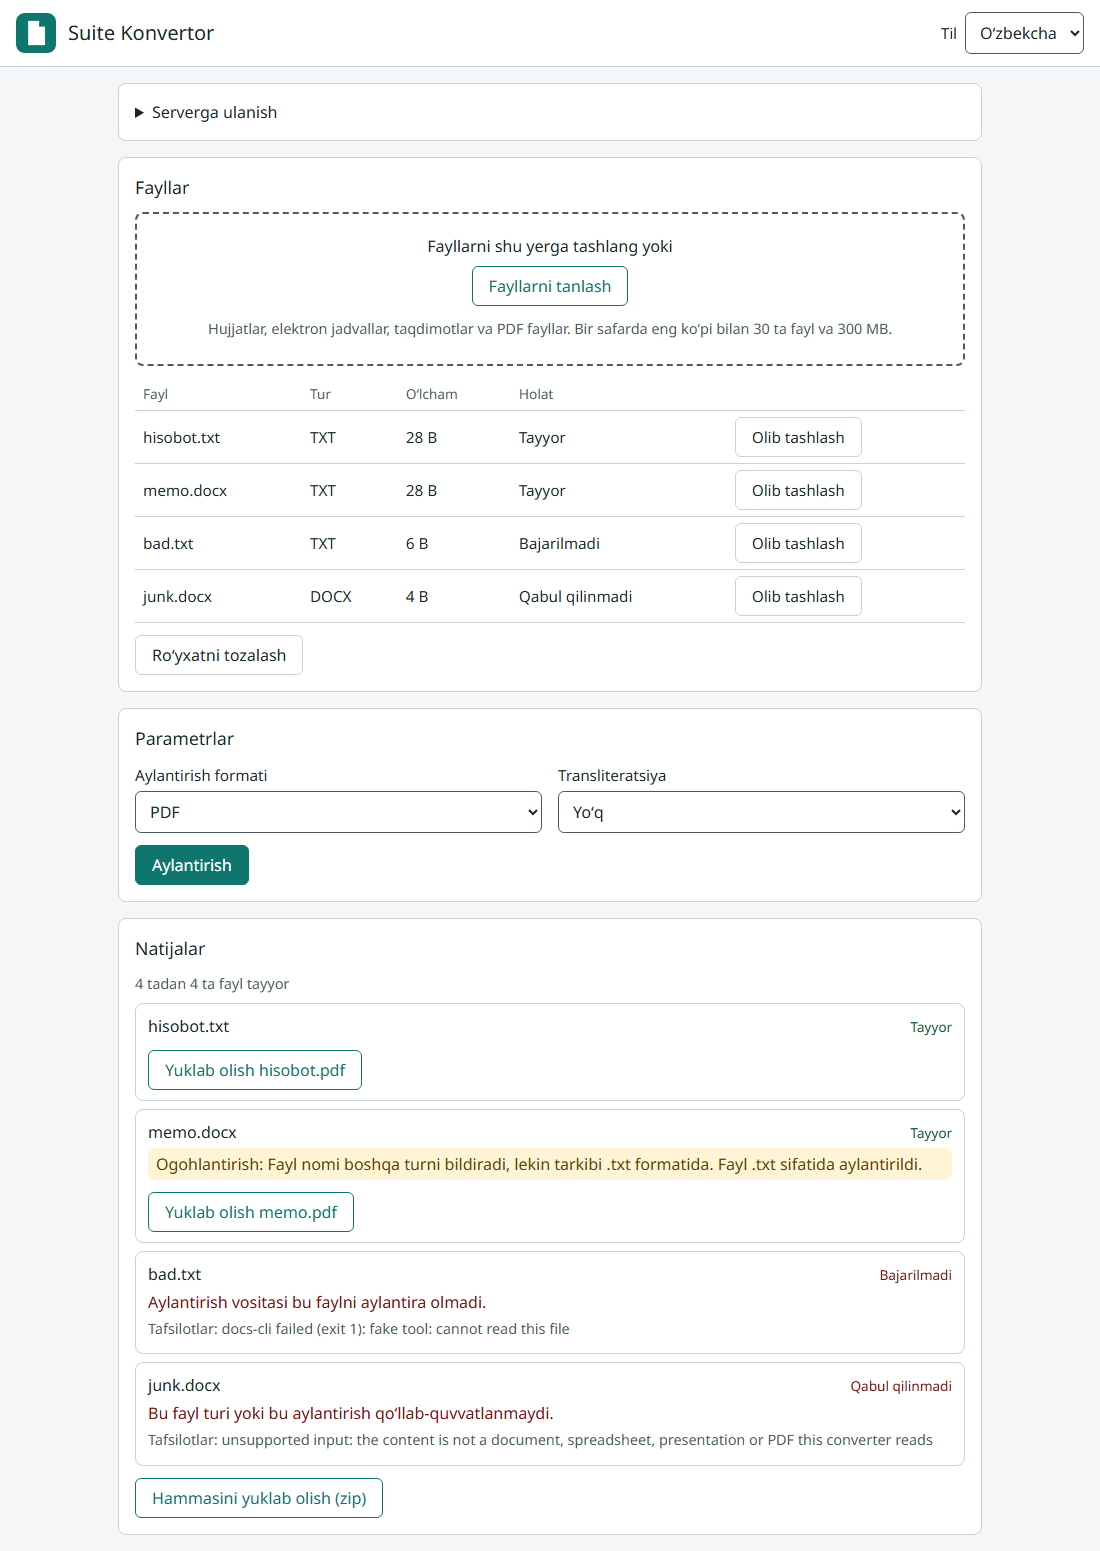
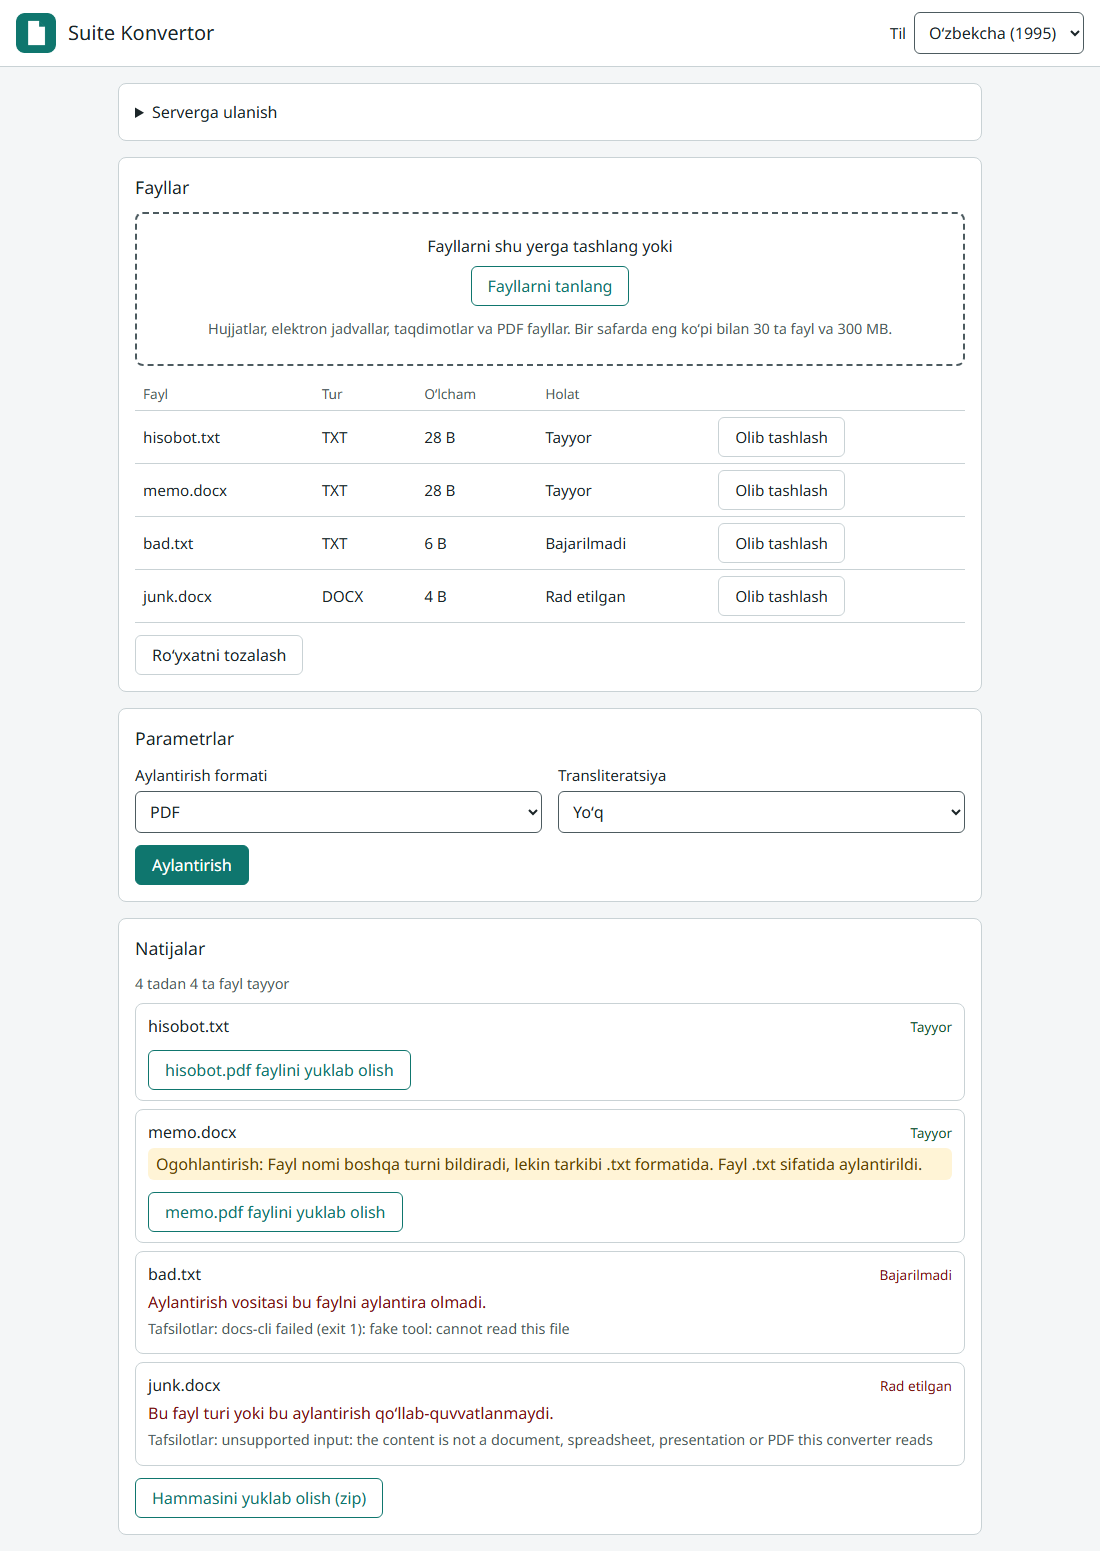
converter WP16: uz-Latn-2026 page catalog, default alphabet mark, three rows reviewed
uz-Latn-2026 has no catalog column: `i18n export converter --format json`
derives it from each row's own trusted uz-Cyrl value through uz-translit
Y2026 (never the ru fallback), and `i18n lint` checks the derived values.
All 123 page strings equal the 1995 strings under the letter substitution.
The language menu offers Oʻzbekcha (1995) and Oʻzbekcha (2026).

The alphabet menu preselects the server default and marks it with the new
ui.opt.alphabet.default row ("{alphabet} (default)"), so the 1995 row is a
plain year and the O13 switch needs no string change.

Reviewed for uz-Latn, uz-Cyrl and ru (reviewed:agent-opus:2026-10-21):
warning.pdf_text_missing, warning.pdf_docx_fallback (the sidecar named by
its menu label), warning.csv_one_sheet (unchanged).

Playwright converter spec 9/9 with the new language; screenshots show
Ş Ç Ö Ğ in Noto Sans Uz with no tofu.

diff --git a/ci/web-smoke/converter.spec.ts b/ci/web-smoke/converter.spec.ts
@@ -8,7 +8,7 @@ import * as path from 'node:path';
 // The converter page against the real convert-api binary. The tools are the test stand-in (convert-api-fake-tool): it writes a
 // stub PDF, `FAIL...` input makes it exit 1, `SLEEP...` input keeps it busy (cancel). Run with:
 //   npm exec --prefix ci/web-smoke -- playwright test --config ci/web-smoke/playwright.converter.config.ts
-// UI_SHOTS=<dir> also writes the four-language screenshots.
+// UI_SHOTS=<dir> also writes the five-language screenshots.
 const ROOT = path.resolve(__dirname, '../..');
 const SVC = process.env.CONVERT_SERVICES_DIR ?? 'E:/office-target/p1/services/release';
 const API_BIN = process.env.CONVERT_API_BIN ?? path.join(SVC, 'convert-api.exe');
@@ -144,7 +144,7 @@ test('cancel stops a running conversion and deletes the job', async ({ page }) =
 
 test('the language switch changes the page, the name and the document language, and is remembered', async ({ page }) => {
   const problems = await open(page);
-  for (const [lang, htmlLang] of [['ru', 'ru'], ['uz-Latn', 'uz-Latn'], ['uz-Cyrl', 'uz-Cyrl'], ['en', 'en']] as const) {
+  for (const [lang, htmlLang] of [['ru', 'ru'], ['uz-Latn', 'uz-Latn'], ['uz-Latn-2026', 'uz-Latn-2026'], ['uz-Cyrl', 'uz-Cyrl'], ['en', 'en']] as const) {
     await page.selectOption('#lang', lang);
     await expect(page.locator('html')).toHaveAttribute('lang', htmlLang);
     await expect(page.locator('#files-h')).toHaveText(txt(lang, 'ui.files.heading'));
@@ -152,12 +152,20 @@ test('the language switch changes the page, the name and the document language, 
     await expect(page).toHaveTitle(I18N[lang]['app.name']);
   }
   expect(txt('uz-Cyrl', 'ui.convert')).not.toBe(txt('uz-Latn', 'ui.convert'));
+  // the 2026 catalog is generated from uz-Cyrl: it has the new letters and none of the 1995 oʻ gʻ
+  const all26 = Object.values(I18N['uz-Latn-2026']).join(' ');
+  expect(all26).toMatch(/[şçöğ]/i);
+  expect(all26).not.toMatch(/ʻ/);
+  // the Latin alphabet menu preselects and marks the server's default (DEFAULT_LATIN_ALPHABET, owner decision O13)
+  const def = (await (await page.request.get(`${base}/api/v1/formats`)).json()).defaults.alphabet;
+  await expect(page.locator('#o-alphabet')).toHaveValue(def);
+  await expect(page.locator(`#o-alphabet option[value="${def}"]`)).toHaveText(txt('en', 'ui.opt.alphabet.default', { alphabet: def }));
   await page.selectOption('#lang', 'uz-Cyrl');
   await page.reload();
   await expect(page.locator('#lang')).toHaveValue('uz-Cyrl'); // remembered
   await expect(page.locator('#go')).toHaveText(txt('uz-Cyrl', 'ui.convert'));
   // the self-hosted Noto Sans really loaded and has the Uzbek letters
-  expect(await page.evaluate(async () => { await document.fonts.ready; return document.fonts.check('16px "Noto Sans Uz"', '\u02bb\u02bc\u045e\u049b\u0493\u04b3'); })).toBe(true);
+  expect(await page.evaluate(async () => { await document.fonts.ready; return document.fonts.check('16px "Noto Sans Uz"', '\u02bb\u02bc\u045e\u049b\u0493\u04b3\u015e\u015f\u00c7\u00e7\u00d6\u00f6\u011e\u011f'); })).toBe(true);
   expect(problems).toEqual([]);
 });
 
@@ -191,10 +199,10 @@ test('server mode: the healthz probe carries the token in the Authorization head
   expect(probes.at(-1)!.auth).toBeUndefined();
 });
 
-test('screenshots in en, ru, uz-Latn and uz-Cyrl', async ({ page }) => {
+test('screenshots in en, ru, uz-Latn, uz-Latn-2026 and uz-Cyrl', async ({ page }) => {
   test.skip(!process.env.UI_SHOTS, 'set UI_SHOTS=<dir> to write them');
   fs.mkdirSync(process.env.UI_SHOTS!, { recursive: true });
-  for (const lang of ['en', 'ru', 'uz-Latn', 'uz-Cyrl']) {
+  for (const lang of ['en', 'ru', 'uz-Latn', 'uz-Latn-2026', 'uz-Cyrl']) {
     await page.goto(base + '/');
     await page.selectOption('#lang', lang);
     await expect(page.locator('#go')).toHaveText(txt(lang, 'ui.convert'));

diff --git a/services/convert-api/ui/app.js b/services/convert-api/ui/app.js
@@ -3,7 +3,8 @@
 // All server text goes in through textContent, never innerHTML.
 (function () {
   const $ = (id) => document.getElementById(id);
-  const LANGS = ['en', 'ru', 'uz-Latn', 'uz-Cyrl'];
+  // uz-Latn-2026: the 2026 Latin alphabet, generated from uz-Cyrl by `cargo xt i18n export` (WP16)
+  const LANGS = ['en', 'ru', 'uz-Latn', 'uz-Latn-2026', 'uz-Cyrl'];
   const S = { lang: 'en', i18n: {}, fmts: null, health: null, items: [], sent: [], job: null, ctrl: null, timer: null, running: false, token: null };
 
   // ---- small helpers -------------------------------------------------------------------------------------------------
@@ -25,6 +26,9 @@
 
   class ApiErr extends Error { constructor(code, message, status) { super(message); this.code = code; this.status = status || 0; } }
 
+  // The server's default Latin alphabet (uz-translit DEFAULT_LATIN_ALPHABET, owner decision O13); null until /formats answers.
+  const defAlphabet = () => (S.fmts && S.fmts.defaults && S.fmts.defaults.alphabet) || null;
+
   // ---- language ------------------------------------------------------------------------------------------------------
   function guessLang() {
     const saved = store('localStorage', 'cv.lang');
@@ -41,6 +45,7 @@
     document.title = t('app.name');
     $('appname').textContent = t('app.name');
     for (const e of document.querySelectorAll('[data-i18n]')) e.textContent = t(e.dataset.i18n);
+    for (const o of $('o-alphabet').options) if (o.value === defAlphabet()) o.textContent = t('ui.opt.alphabet.default', { alphabet: o.textContent });
     const sc = $('o-sidecar'); if (sc && S.health && S.health.sidecars && S.health.sidecars.pdf2docx === false) sc.textContent = t('ui.opt.engine.sidecar') + ' (' + t('ui.opt.engine.unavailable') + ')';
     render();
   }
@@ -297,6 +302,7 @@
     // api() adds the Authorization header in server mode: without a token the server answers only {ok:true} (no tool list, no sidecar state)
     try { S.health = await (await api('/healthz')).json(); } catch (_) { /* shown by the next call if the server is really down */ }
     try { S.fmts = await (await api('/api/v1/formats')).json(); } catch (e) { showError(e); }
+    if (defAlphabet()) $('o-alphabet').value = defAlphabet();
     setLang(S.lang);
   }
   async function init() {

diff --git a/services/convert-api/ui/index.html b/services/convert-api/ui/index.html
@@ -16,7 +16,8 @@
     <select id="lang">
       <option value="en">English</option>
       <option value="ru">Русский</option>
-      <option value="uz-Latn">Oʻzbekcha</option>
+      <option value="uz-Latn">Oʻzbekcha (1995)</option>
+      <option value="uz-Latn-2026">Oʻzbekcha (2026)</option>
       <option value="uz-Cyrl">Ўзбекча</option>
     </select>
   </div>
@@ -81,7 +82,7 @@
         </select></div>
       <div class="field" data-opt="alphabet"><label for="o-alphabet" data-i18n="ui.opt.alphabet">Latin alphabet</label>
         <select id="o-alphabet">
-          <option value="1995" data-i18n="ui.opt.alphabet.1995">1995 (default)</option>
+          <option value="1995" data-i18n="ui.opt.alphabet.1995">1995</option>
           <option value="2026" data-i18n="ui.opt.alphabet.2026">2026</option>
         </select></div>
       <div class="field" data-opt="sheet"><label for="o-sheet" data-i18n="ui.opt.sheet">Sheet to save as CSV</label>

diff --git a/services/convert-api/ui/app.css b/services/convert-api/ui/app.css
@@ -1,4 +1,4 @@
-/* Self-hosted Noto Sans (Latin, U+02BB, U+02BC, Cyrillic): the system fonts lack some Uzbek letters. */
+/* Self-hosted Noto Sans (Latin incl. the 2026 letters Ş Ç Ö Ğ, U+02BB, U+02BC, Cyrillic): the system fonts lack some Uzbek letters. */
 @font-face { font-family: "Noto Sans Uz"; src: url("/NotoSans-Regular-uz.ttf") format("truetype"); font-weight: 100 900; font-style: normal; font-display: swap; }
 
 :root {

diff --git a/xtask/src/i18n/export.rs b/xtask/src/i18n/export.rs
@@ -342,12 +342,26 @@ pub fn overlay_root() -> Result<PathBuf, String> {
 }
 
 /// Locales of the converter page, as `brand.toml` spells them, with the catalog's lower-case name.
-const PAGE_LOCALES: [(&str, &str); 4] = [
+const PAGE_LOCALES: [(&str, &str); 5] = [
     ("en", "en"),
     ("ru", "ru"),
     ("uz-Latn", "uz-latn"),
     ("uz-Cyrl", "uz-cyrl"),
+    ("uz-Latn-2026", LATN_2026),
 ];
+
+/// The derived 2026-alphabet locale (WP16): no catalog column of its own. Each value is the row's own uz-Cyrl value
+/// (never the ru fallback) transliterated by uz-translit with the 2026 alphabet, so it is exactly as trusted as that value.
+pub const LATN_2026: &str = "uz-latn-2026";
+
+/// uz-Cyrl text in the 2026 Latin alphabet (rules.md section 15).
+pub fn latn_2026(cyrl: &str) -> String {
+    let o = uz_translit::Options {
+        latin_alphabet: uz_translit::LatinAlphabet::Y2026,
+        ..Default::default()
+    };
+    uz_translit::convert(cyrl, uz_translit::Direction::ToLatin, &o)
+}
 
 fn json_str(s: &str) -> String {
     let mut out = String::from("\"");
@@ -384,6 +398,9 @@ pub fn build_page_json(
             }
             let v = if *key == "en" {
                 Some(row.source.clone())
+            } else if *key == LATN_2026 {
+                let own = Chains(BTreeMap::from([("uz-cyrl".into(), vec!["uz-cyrl".into()])]));
+                resolve(row, "converter", "uz-cyrl", &own, mode, policy).map(|r| latn_2026(&r.0))
             } else {
                 resolve(row, "converter", key, chains, mode, policy).map(|r| r.0)
             };
@@ -391,8 +408,12 @@ pub fn build_page_json(
                 m.entry(row.context.clone()).or_insert(v);
             }
         }
-        if let Some(n) = names.get(*loc) {
-            m.insert("app.name".into(), n.clone());
+        let name = match *key {
+            LATN_2026 => names.get("uz-Cyrl").map(|n| latn_2026(n)),
+            _ => names.get(*loc).cloned(),
+        };
+        if let Some(n) = name {
+            m.insert("app.name".into(), n);
         }
         out.push_str(&format!("  {}: {{\n", json_str(loc)));
         let body: Vec<String> = m
@@ -1188,10 +1209,15 @@ mod tests {
     "app.name": "Н",
     "ui.a": "Алфа",
     "ui.b": "Бета"
+  },
+  "uz-Latn-2026": {
+    "app.name": "N",
+    "ui.a": "Alfa"
   }
 }
 "#;
-        assert_eq!(text, want); // uz-Cyrl falls back to ru, uz-Latn never to en
+        // uz-Cyrl falls back to ru, uz-Latn never to en; uz-Latn-2026 is the own uz-Cyrl value transliterated, never ru
+        assert_eq!(text, want);
         let release = build_page_json(
             &cat,
             &Chains::default(),

diff --git a/xtask/src/i18n/lint.rs b/xtask/src/i18n/lint.rs
@@ -400,9 +400,16 @@ pub fn lint(cat: &Catalog) -> Vec<Finding> {
                     ),
                 );
             }
+            // The converter page's derived uz-Latn-2026 value (export::latn_2026) is checked like a Latin draft.
+            let d26 = if scope == "converter" && !r.uz_cyrl.is_empty() {
+                super::export::latn_2026(&r.uz_cyrl)
+            } else {
+                String::new()
+            };
             for (loc, value, status, is_latn) in [
                 ("uz-Latn", &r.uz_latn, &r.uz_latn_status, true),
                 ("uz-Cyrl", &r.uz_cyrl, &r.uz_cyrl_status, false),
+                ("uz-Latn-2026", &d26, &r.uz_cyrl_status, true),
             ] {
                 if value.is_empty() {
                     continue;
@@ -427,6 +434,12 @@ pub fn lint(cat: &Catalog) -> Vec<Finding> {
                         .into_iter()
                         .map(|m| ("apostrophe", m)),
                 );
+                if loc == "uz-Latn-2026" && value.contains('\u{02bb}') {
+                    errs.push((
+                        "apostrophe",
+                        "1995 letter (U+02BB) in the 2026 text".to_string(),
+                    ));
+                }
                 errs.extend(
                     script_purity(is_latn, &r.source, value)
                         .into_iter()
